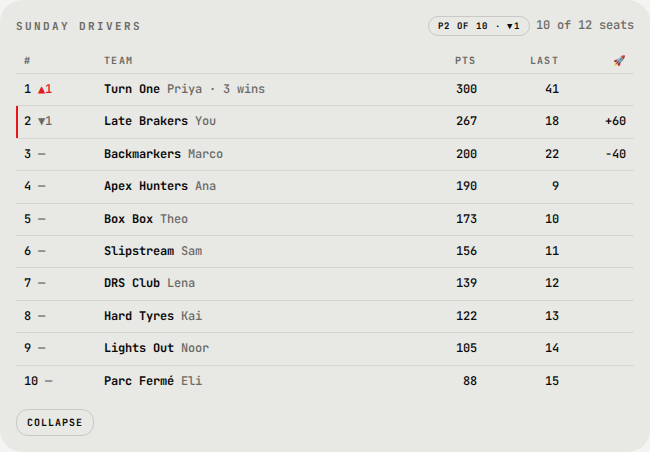
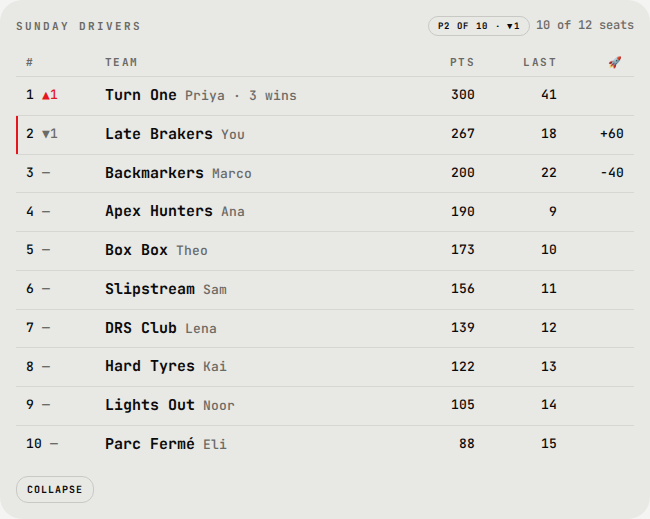
feat(pw): tables read larger on a wide screen (F-115) (#198)
* feat(pw): tables read larger on a wide screen (F-115)

The portal's 12px mono was chosen so the phone holds, and nothing stepped it
up where there is room. At the grid's ≥981px breakpoint table cells are now
13px with a little more padding, headers 11px, and the name cell (Market,
Board, Lineup Lab options, the League tile) 15px. Below it nothing changes:
the phone render is byte-identical. Scroll budget 330 states OK.

* fix(pw): F-115 review — the League tile's name cell, no padding step-up, spec says every table

The League tile's name is its second cell (rank first) → scoped selector.
Wider cell padding pushed the half-width tables (Lineup Lab options, Season)
into sideways scroll at laptop widths → padding stays; measured overflow at
1024/1280/1440 is no worse than master. Spec names every table and the
rank-first exception; assets note covers the F-115 shots.

---------

diff --git a/web/pitwall/src/styles.css b/web/pitwall/src/styles.css
@@ -168,6 +168,8 @@ details.tbl>summary{cursor:pointer;color:var(--muted);font-size:10px;letter-spac
   .over{padding:16px}
 }
 @media(min-width:641px){.only-narrow{display:none !important}}
+/* F-115: a wide screen has room — every table steps up (cells 13px, headers 11px, the bold name cell 15px; padding stays, or the half-width tables scroll sideways on a laptop — the first cell, or the second in the League tile where rank comes first); the phone keeps 12px */
+@media(min-width:981px){td{font-size:13px}th{font-size:11px}td:first-child b,#league-table td:nth-child(2) b{font-size:15px}}
 
 /* ---- locked frames (F-068) ---- */
 /* Enough of the frame to show what it is, not so much that the offer sits in a field of blur. */

diff --git a/.aidlc/specs/F-115.md b/.aidlc/specs/F-115.md
@@ -1,0 +1,23 @@
+# F-115 — UC: Pit Wall tables read larger on a wide screen
+
+Created: 2026-10-08 · Status: building · Design source: the owner, 2026-10-08 — "the font size on something like /market can be larger for driver names; we want it reactive for mobile, which is why we made it smaller, but on a PC we can scale it up"
+
+## Goal
+Undercut (Pit Wall portal). The portal's running text is 12 px mono at every width, and every table cell inherits it — the size was chosen so the phone layout holds, and nothing steps it up where there is room. On a desktop the Market, Board, Lineup Lab option and League tables are harder to read than they need to be, driver names most of all. This scales table text up at the portal's existing wide breakpoint and leaves the phone exactly as it is.
+
+## Acceptance criteria
+- [ ] **At ≥ 981 px** (the breakpoint the page grid already uses) every `table` in the portal reads at 13 px and column headers at 11 px — cell padding stays as it is, because wider cells pushed the half-width tables (Lineup Lab options, Season) into sideways scroll at 1024–1280 px — Market, Board, Lineup Lab options, Season, Pace Lab, the compare table, the League tile. The bold name cell reads at 15 px: the first cell of a row everywhere, and the second in the League tile, where rank comes first (`#league-table`). Bold cells that are not names (a Board median, a Lab gain) are untouched. Below 981 px nothing changes: the phone keeps 12 px and its padding (byte-identical screenshot).
+- [ ] **Row lists keep their size.** `.row` lists (Circuit, Briefing, Moonshot) are not in scope; only `table` cells.
+- [ ] **Budgets hold.** The scroll budget stays within 3.0 screens in every measured state at 1440 × 900 (the larger cells lengthen the Board and Market pages); the half-width tables add no sideways scroll at 1024, 1280 or 1440 that they did not have before; first-load JS unchanged. Before/after screenshots of Market at desktop and phone in `docs/design/pitwall/verify/F-115-*.png`.
+
+## Targets
+- web (Pit Wall portal only)
+
+## Data
+None.
+
+## Performance budget
+CSS only; no bundle change.
+
+## Out of scope
+- A user-chosen text size; the tile / hero type scale; the app.
